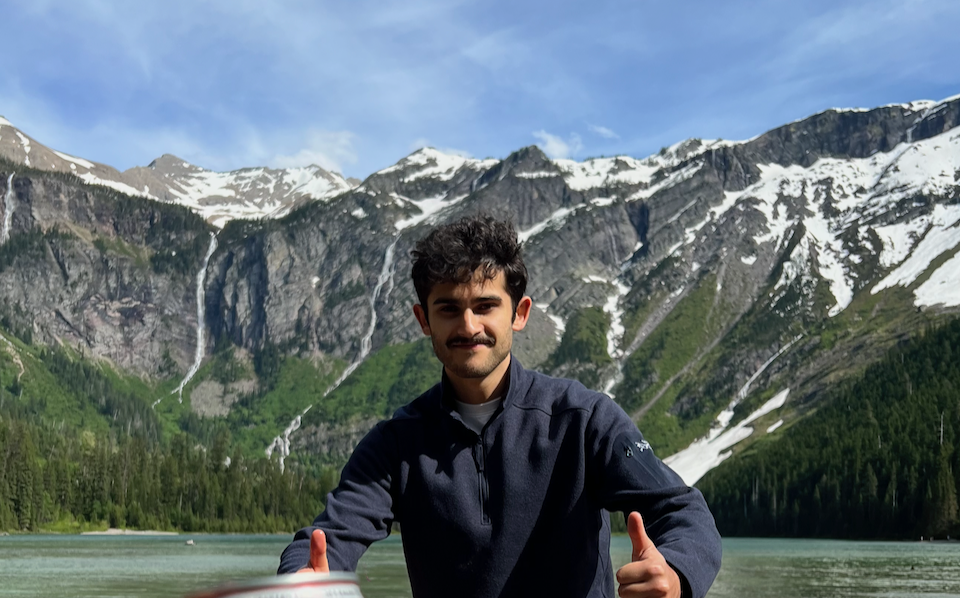
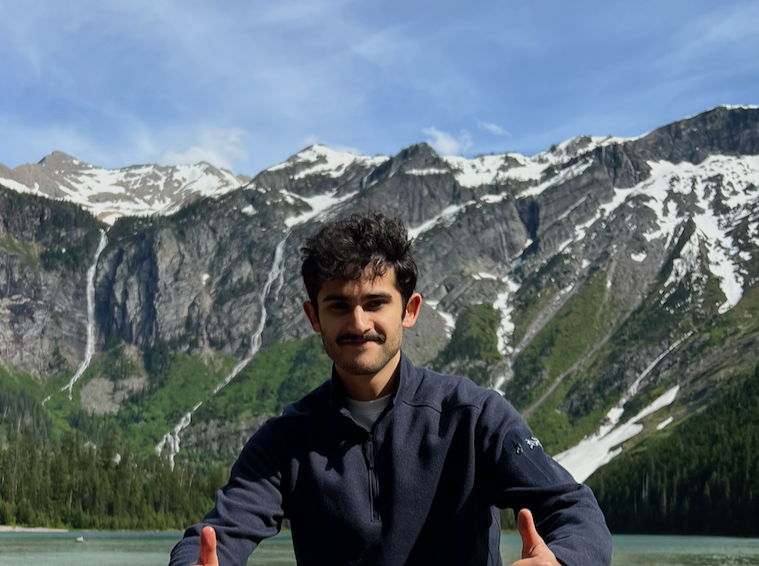
update home page

diff --git a/assets/main.scss b/assets/main.scss
@@ -13,13 +13,28 @@ h1, h2, h3 {
     font-family: 'Helvetica', sans-serif;
 }
 
-.profile-image {
-    height: auto;
-    justify-content: center;
-    // max-width: 500px;
-    width: 100%;
+.intro {
     display: flex;
+    flex-wrap: wrap;
+    align-items: center;
+    gap: $spacing-unit;
     margin-bottom: 15px;
+}
+
+.intro-photo {
+    flex: none;
+    width: 280px;
+    max-width: 100%;
+    height: auto;
+}
+
+.intro-text {
+    // Drops below the photo once it can no longer hold a readable measure
+    flex: 1 1 320px;
+
+    p:last-child {
+        margin-bottom: 0;
+    }
 }
 
 .footer-row {

diff --git a/index.md b/index.md
@@ -3,10 +3,9 @@ layout: home
 title: Home
 ---
 
-<div class="profile-image">
-    <img src="/assets/images/me-and-whiteclaws.png" alt="" >
+<div class="intro">
+    <img class="intro-photo" src="/assets/images/me-and-whiteclaws.png" alt="">
+    <div class="intro-text">
+        <p>Welcome! I'm Armaan Abraham.</p>
+    </div>
 </div>
-
-<p>
-Welcome! I'm Armaan Abraham.
-</p>
